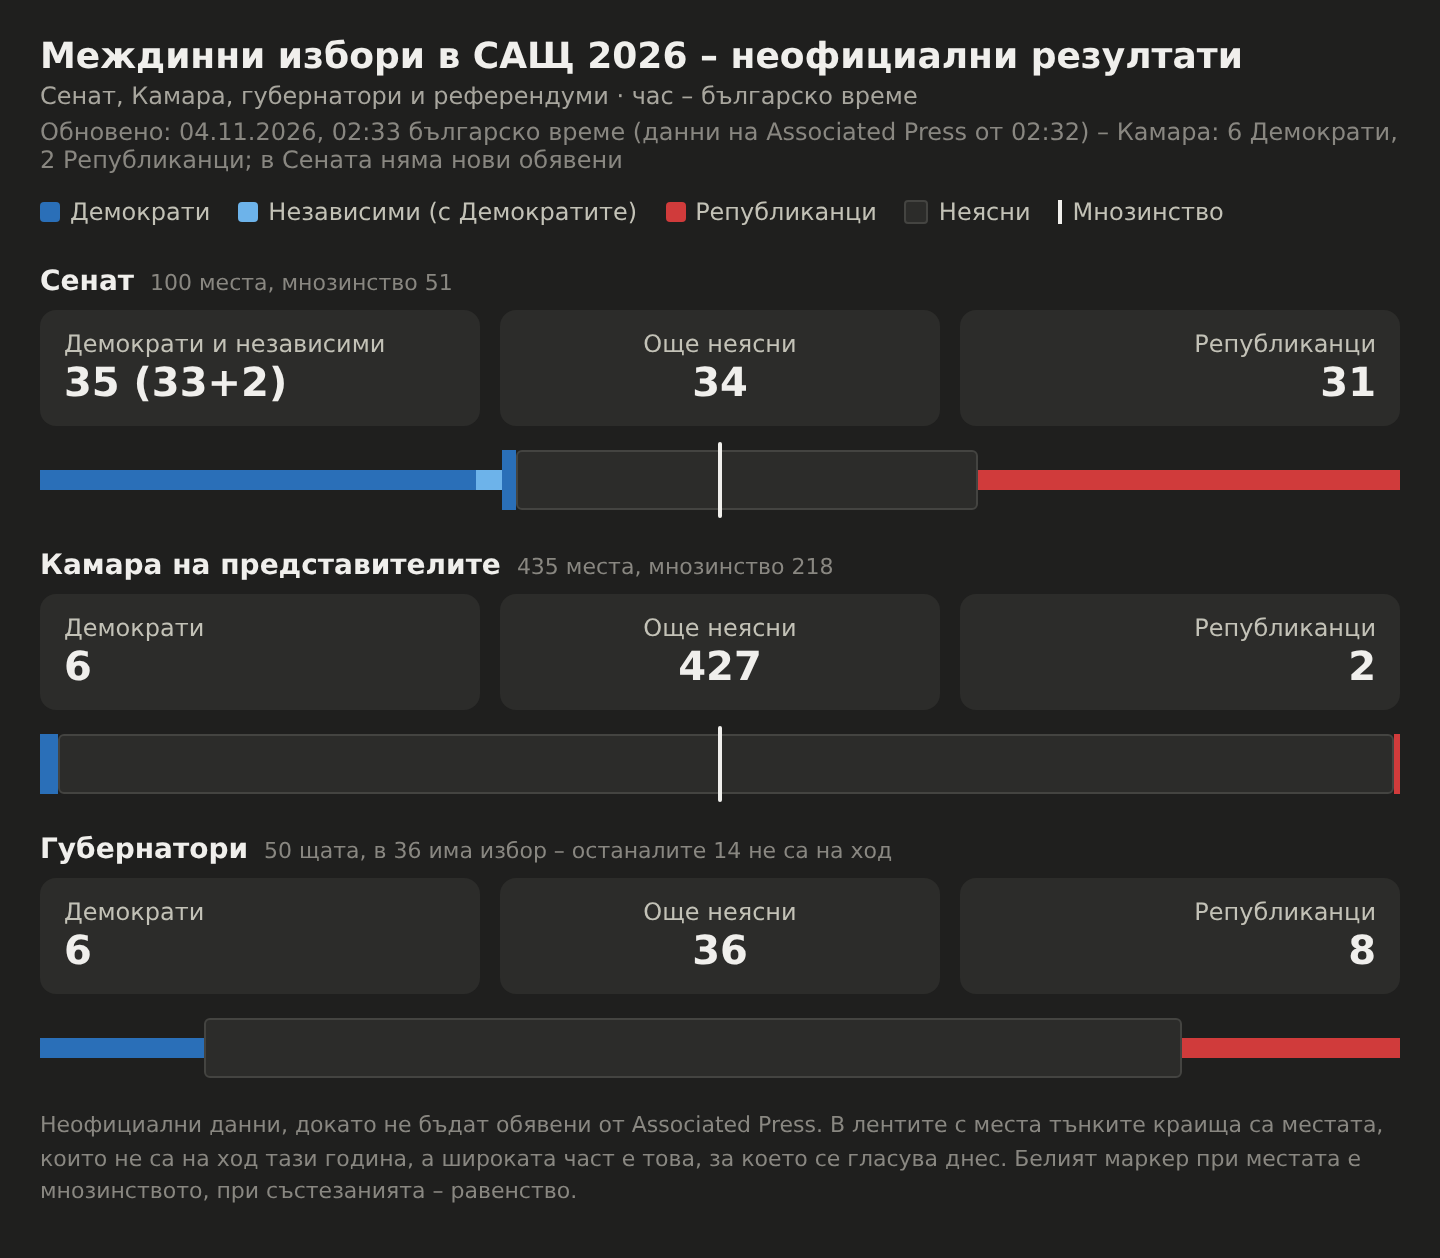
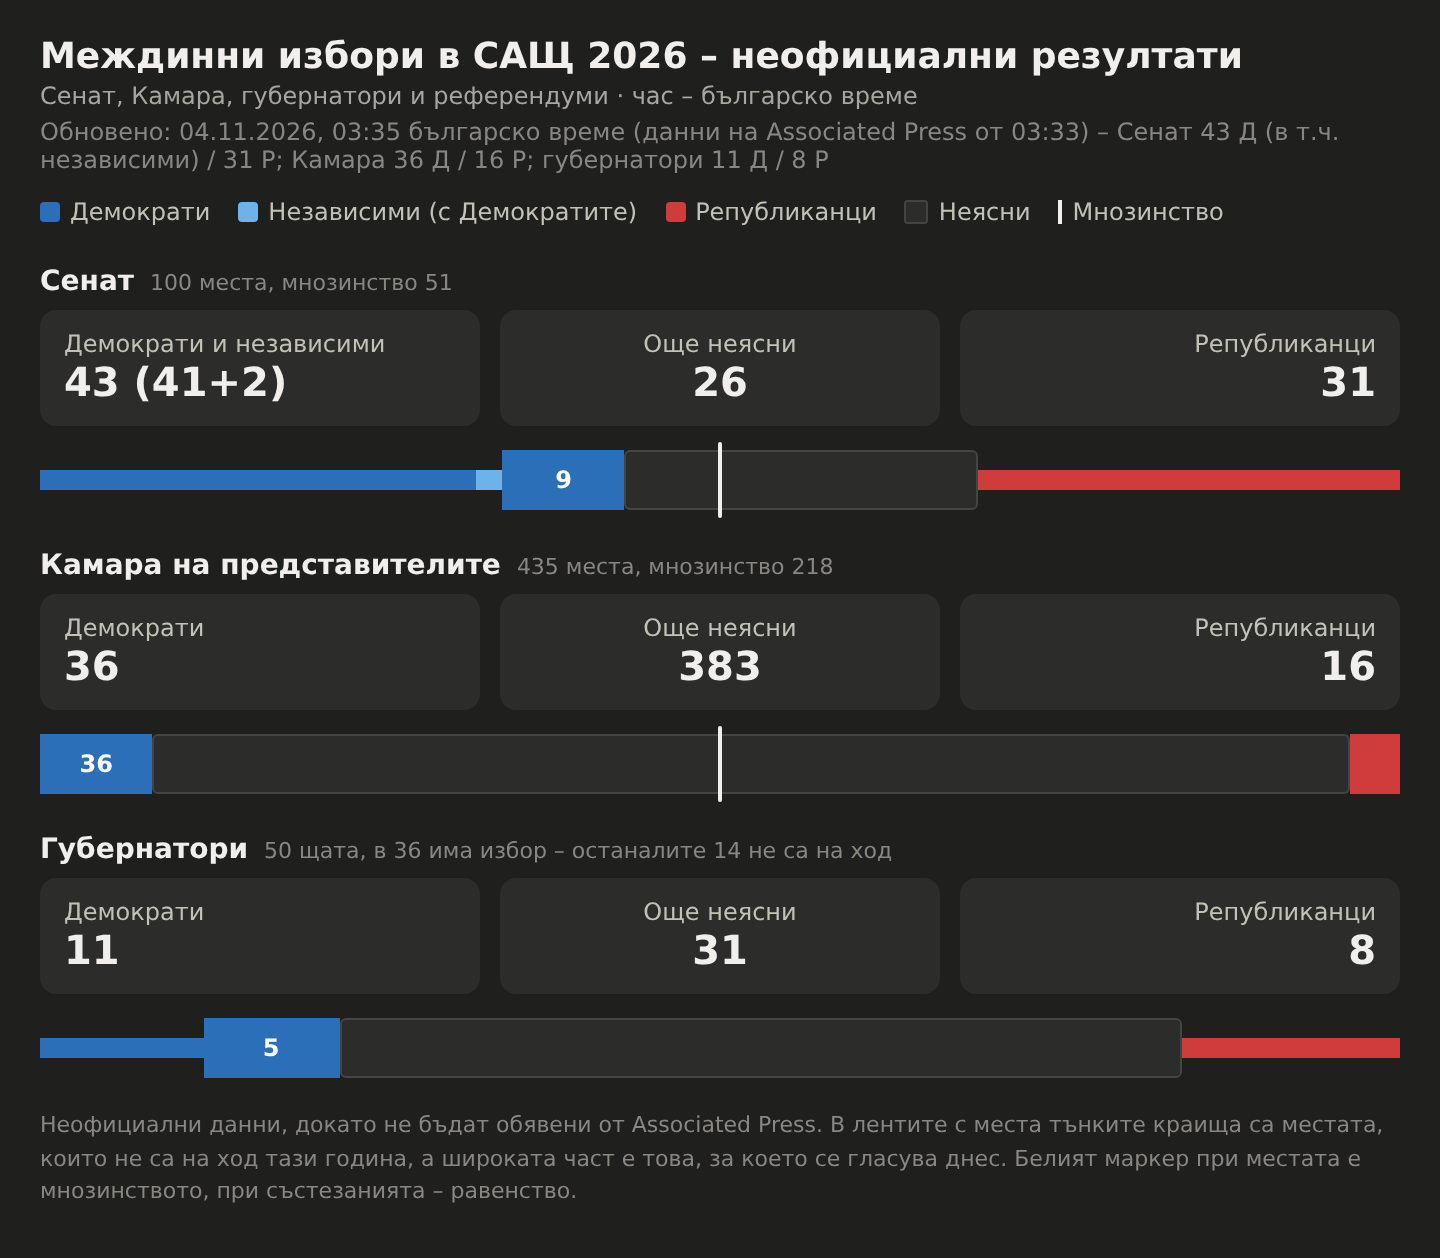
Обновяване 03:35 българско време
Claude-Session: https://claude.ai/code/session_013Bd4dyDeBGD9vdxVJ9tN9V

diff --git a/us-midterms-2026.11.03.html b/us-midterms-2026.11.03.html
@@ -51,13 +51,13 @@ h1{font-size:18px;font-weight:600;margin:0 0 2px}
 .empty{font-size:13px;color:var(--text-muted);padding:10px 0}
 .foot{font-size:11px;color:var(--text-muted);margin-top:16px;line-height:1.5}
 </style></head><body><div class="wrap">
-<h1>Междинни избори в САЩ 2026 – неофициални резултати</h1><div class="sub">Сенат, Камара, губернатори и референдуми · час – българско време</div><div class="upd">Обновено: 04.11.2026, 02:33 българско време (данни на Associated Press от 02:32) – Камара: 6 Демократи, 2 Републиканци; в Сената няма нови обявени</div>
+<h1>Междинни избори в САЩ 2026 – неофициални резултати</h1><div class="sub">Сенат, Камара, губернатори и референдуми · час – българско време</div><div class="upd">Обновено: 04.11.2026, 03:35 българско време (данни на Associated Press от 03:33) – Сенат 43 Д (в т.ч. независими) / 31 Р; Камара 36 Д / 16 Р; губернатори 11 Д / 8 Р</div>
 <div class="tabs" id="tabs"></div>
 <div id="view"></div>
 <div class="foot">Неофициални данни, докато не бъдат обявени от Associated Press. В лентите с места тънките краища са местата, които не са на ход тази година, а широката част е това, за което се гласува днес. Белият маркер при местата е мнозинството, при състезанията – равенство. Щракни на ред, за да видиш как се е променял или кои са окръзите на щата.</div>
 </div>
 <script>
-var DATA={"title": "Междинни избори в САЩ 2026 – неофициални резултати", "sub": "Сенат, Камара, губернатори и референдуми · час – българско време", "updated": "04.11.2026, 02:33 българско време (данни на Associated Press от 02:32) – Камара: 6 Демократи, 2 Републиканци; в Сената няма нови обявени", "times": ["01:30", "02:00", "02:15", "02:30"], "chambers": {"sen": {"tot": 100, "mj": 51, "d": [32, 32, 33, 33], "i": [2, 2, 2, 2], "r": [31, 31, 31, 31], "base": {"d": 32, "i": 2, "r": 31}}, "hou": {"tot": 435, "mj": 218, "d": [0, 0, 3, 6], "i": [0, 0, 0, 0], "r": [0, 0, 1, 2], "base": {"d": 0, "i": 0, "r": 0}}, "gov": {"tot": 50, "d": [6, 6, 6], "i": [], "r": [8, 8, 8], "base": {"d": 6, "i": 0, "r": 8}}}, "senate": [["Кентъки", 51.5, 47.1, 9, "Води: Демократи", 0, [["02:07", 51.5, 47.1]]], ["Върджиния", null, null, null, "<b>Обявен:</b> Демократи", 1], ["Грузия", null, null, null, "Води: Демократи (+34,9 пункта, преброени ~23%)", 0, []], ["Ню Хемпшър", null, null, null, "Води: Демократи (+27,2 пункта, преброени ~6%)", 0, []], ["Южна Каролина", null, null, null, "Води: Демократи (+12,3 пункта, преброени под 1%)", 0, []]], "gov": [], "housecontested": [], "housestates": [["Флорида", 3, 1, 24, []], ["Кентъки", 1, 1, 4, []], ["Грузия", 2, 0, 12, []]], "measures": [], "foot": "Неофициални данни, докато не бъдат обявени от Associated Press. В лентите с места тънките краища са местата, които не са на ход тази година, а широката част е това, за което се гласува днес. Белият маркер при местата е мнозинството, при състезанията – равенство. Щракни на ред, за да видиш как се е променял или кои са окръзите на щата."};
+var DATA={"title": "Междинни избори в САЩ 2026 – неофициални резултати", "sub": "Сенат, Камара, губернатори и референдуми · час – българско време", "updated": "04.11.2026, 03:35 българско време (данни на Associated Press от 03:33) – Сенат 43 Д (в т.ч. независими) / 31 Р; Камара 36 Д / 16 Р; губернатори 11 Д / 8 Р", "times": ["01:30", "02:00", "02:15", "02:30", "03:30"], "chambers": {"sen": {"tot": 100, "mj": 51, "d": [32, 32, 33, 33, 41], "i": [2, 2, 2, 2, 2], "r": [31, 31, 31, 31, 31], "base": {"d": 32, "i": 2, "r": 31}}, "hou": {"tot": 435, "mj": 218, "d": [0, 0, 3, 6, 36], "i": [0, 0, 0, 0, 0], "r": [0, 0, 1, 2, 16], "base": {"d": 0, "i": 0, "r": 0}}, "gov": {"tot": 50, "d": [6, 6, 6, 6, 11], "i": [], "r": [8, 8, 8, 8, 8], "base": {"d": 6, "i": 0, "r": 8}}}, "senate": [["Кентъки", 51.5, 47.1, 9, "Води: Демократи", 0, [["02:07", 51.5, 47.1]]], ["Върджиния", null, null, null, "<b>Обявен:</b> Демократи", 1], ["Северна Каролина", null, null, null, "<b>Обявен:</b> Демократи (Купър; място, което сега е на Републиканците)", 1, []], ["Ню Хемпшър", null, null, null, "<b>Обявен:</b> Демократи (Папас)", 1, []], ["Грузия", null, null, 60, "Води: Демократи (Ософ)", 0, []], ["Южна Каролина", null, null, 41, "Води: Демократи (+5,3 пункта)", 0, []], ["Охайо", null, null, 34, "Води: Демократи (Браун, +18,4 пункта)", 0, []], ["Тексас", null, null, 23, "Води: Демократи (Таларико, +20,3 пункта)", 0, []], ["Канзас", null, null, 13, "Води: Демократи (+17,6 пункта)", 0, []], ["Мичиган", null, null, 7, "Води: Демократи (+14,9 пункта)", 0, []]], "gov": [["Роуд Айлънд", null, null, null, "<b>Обявена:</b> Демократи (Фулкс)", 1, []]], "housecontested": [], "housestates": [], "measures": [], "foot": "Неофициални данни, докато не бъдат обявени от Associated Press. В лентите с места тънките краища са местата, които не са на ход тази година, а широката част е това, за което се гласува днес. Белият маркер при местата е мнозинството, при състезанията – равенство. Щракни на ред, за да видиш как се е променял или кои са окръзите на щата."};
 var D='#2a6fb8',I='#6db3ea',R='#d03b3b',Y='#1baf7a',N='#eb6834';
 var f=function(v){return String(Math.round(v*10)/10).replace('.',',')+'%'};
 var leg=function(a,lm){return '<div class="leg">'+a.map(function(x){return '<span><i class="sw" style="background:'+x[0]+(x[2]?';border:1px solid var(--border)':'')+'"></i>'+x[1]+'</span>'}).join('')+'<span><i class="mk"></i>'+lm+'</span></div>'};
